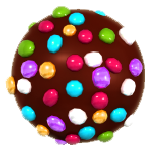
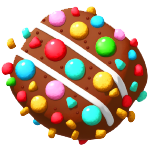
Updated some sprites, added some animations

diff --git a/src/pages/game/candy-tiles/level-grid/level-items/Chocolate.tsx b/src/pages/game/candy-tiles/level-grid/level-items/Chocolate.tsx
@@ -6,7 +6,7 @@ import useEffectAfterFirstRender from '../../../../../hooks/useEffectAfterFirstR
 import { useRecoilValue, useSetRecoilState } from 'recoil';
 import { levelItemsState } from '../../../../../recoil/atoms/levelItems';
 import { latestSwappedCandyColor } from '../LevelManager';
-import anime from 'animejs';
+import anime, { AnimeInstance } from 'animejs';
 import { scoreState } from '../../../../../recoil/atoms/score';
 import { scoreFxListState } from '../../../../../recoil/atoms/scoreFxList';
 import uuid from 'react-uuid';
@@ -15,14 +15,27 @@ import { getItemColumnIndex, getItemRowIndex } from '../../../../../game-algorit
 const chocolateMatchSound = new Audio(chocolateMatchSFX);
 chocolateMatchSound.volume = 0.5;
 
-const animateItemSpawn = (element: HTMLElement): void => {
+const animateItemSpawn = (element: HTMLElement, onComplete: () => void): void => {
 	anime({
 		targets: element,
-		scale: [0, 2, 1],
-		rotate: [360, 0],
+		scale: [0, 1.2, 1],
 		easing: 'easeOutBack',
 		duration: 500,
+		complete: onComplete,
 	});
+};
+
+const animateChocolateScale = (element: HTMLElement): AnimeInstance => {
+	const animation = anime({
+		targets: element,
+		rotate: [0, 360],
+		duration: 10000,
+		loop: true,
+		easing: 'linear',
+		direction: 'normal',
+	});
+
+	return animation;
 };
 
 const CHOCHOLATE_SCORE = 100;
@@ -33,16 +46,22 @@ type ChocolateProps = {
 };
 
 const Chocolate = ({ id, index }: ChocolateProps) => {
-	const [scale] = useState(0);
 	const [showFX, setShowFX] = useState(false);
 	const itemUsedRef = useRef(false);
 	const levelItems = useRecoilValue(levelItemsState);
 	const elementRef = useRef<HTMLImageElement | null>(null);
+	const spinAnimationRef = useRef<null | AnimeInstance>(null);
 	const setScore = useSetRecoilState(scoreState);
 	const setScoreFxList = useSetRecoilState(scoreFxListState);
 
 	useEffect(() => {
-		animateItemSpawn(elementRef.current as HTMLElement);
+		animateItemSpawn(elementRef.current as HTMLElement, () => {
+			spinAnimationRef.current = animateChocolateScale(elementRef.current as HTMLElement);
+		});
+
+		return () => {
+			anime.remove(spinAnimationRef.current);
+		};
 	}, []);
 
 	useEffectAfterFirstRender(() => {
@@ -68,12 +87,7 @@ const Chocolate = ({ id, index }: ChocolateProps) => {
 	return showFX ? (
 		<LevelItemFX color={latestSwappedCandyColor} maskSrc='/img/fx/triangleShape.png'></LevelItemFX>
 	) : (
-		<img
-			data-chocolate
-			ref={elementRef}
-			src={chocolateSprite}
-			className='block w-full h-full m-0 select-none pointer-events-none duration-200'
-		></img>
+		<img data-chocolate ref={elementRef} src={chocolateSprite} className='block w-full h-full m-0 select-none pointer-events-none'></img>
 	);
 };
 

diff --git a/src/pages/game/candy-tiles/level-grid/level-items/SuperCandy.tsx b/src/pages/game/candy-tiles/level-grid/level-items/SuperCandy.tsx
@@ -10,7 +10,7 @@ import LevelItemFX from '../fx/LevelItemFX';
 import { useRecoilValue, useSetRecoilState } from 'recoil';
 import { levelItemsState } from '../../../../../recoil/atoms/levelItems';
 import useEffectAfterFirstRender from '../../../../../hooks/useEffectAfterFirstRender';
-import anime from 'animejs';
+import anime, { AnimeInstance } from 'animejs';
 import { scoreState } from '../../../../../recoil/atoms/score';
 import { scoreFxListState } from '../../../../../recoil/atoms/scoreFxList';
 import uuid from 'react-uuid';
@@ -29,14 +29,27 @@ const superCandyMatchSound = new Audio(superCandyMatchSFX);
 
 export const CandyColors = ['Red', 'Orange', 'Yellow', 'Green', 'Blue', 'Purple'];
 
-const animateItemSpawn = (element: HTMLElement): void => {
+const animateItemSpawn = (element: HTMLElement, onComplete: () => void): void => {
 	anime({
 		targets: element,
 		scale: [0, 1],
-		rotate: [180, 0],
+		rotate: [180, -10],
 		easing: 'easeOutBack',
 		duration: 750,
+		complete: onComplete,
 	});
+};
+
+const animateSuperCandyRotation = (element: HTMLElement): AnimeInstance => {	
+	const animation = anime({
+		targets: element,
+		rotate: [-10, 10],
+		duration: 1500,
+		easing: 'easeInOutCubic',
+		direction: 'alternate',
+		loop: true,
+	});
+	return animation;
 };
 
 const SUPER_CANDY_SCORE = 50;
@@ -52,11 +65,18 @@ const SuperCandy = ({ color, id, index }: SuperCandyProps) => {
 	const itemUsedRef = useRef(false);
 	const elementRef = useRef<HTMLImageElement | null>(null);
 	const levelItems = useRecoilValue(levelItemsState);
+	const rotateAnimationRef = useRef<null | AnimeInstance>(null);
 	const setScore = useSetRecoilState(scoreState);
 	const setScoreFxList = useSetRecoilState(scoreFxListState);
 
 	useEffect(() => {
-		animateItemSpawn(elementRef.current as HTMLElement);
+		animateItemSpawn(elementRef.current as HTMLElement, () => {
+			rotateAnimationRef.current = animateSuperCandyRotation(elementRef.current as HTMLElement);
+		});
+
+		return () => {
+			anime.remove(rotateAnimationRef.current);
+		};
 	}, []);
 
 	useEffectAfterFirstRender(() => {
@@ -87,7 +107,7 @@ const SuperCandy = ({ color, id, index }: SuperCandyProps) => {
 			data-candy
 			data-color={color}
 			src={candyImages[color]}
-			className='block w-full h-full m-0 select-none pointer-events-none duration-200'
+			className='block w-full h-full m-0 select-none pointer-events-none'
 		></img>
 	);
 };

diff --git a/src/pages/game/candy-tiles/level-grid/tiles/RockTile.tsx b/src/pages/game/candy-tiles/level-grid/tiles/RockTile.tsx
@@ -38,7 +38,13 @@ const RockTile = ({ index }: TileProps) => {
 
 	return (
 		<div className='relative bg-black/25 m-[2%] hover:invert duration-200 select-none rounded cursor-not-allowed' data-index={index}>
-			<img src={damaged ? '/img/tiles/rock.png' : '/img/tiles/rock2.png'} className='pointer-events-none'></img>
+			<img
+				src='/img/tiles/rock2.png'
+				className='pointer-events-none'
+				style={{
+					opacity: damaged ? 0.75 : 1,
+				}}
+			></img>
 			<span className='absolute bottom-0 right-0 text-[12px] text-white/50 font-bold hidden'>{index}</span>
 		</div>
 	);

diff --git a/src/pages/game/candy-tiles/level-grid/tiles/FrostTile.tsx b/src/pages/game/candy-tiles/level-grid/tiles/FrostTile.tsx
@@ -37,7 +37,13 @@ const FrostTile = ({ index }: TileProps) => {
 
 	return (
 		<div className='relative bg-black/25 m-[2%] hover:invert duration-200 select-none rounded' data-index={index} data-tile>
-			<img src={damaged ? '/img/tiles/frost.png' : '/img/tiles/frost2.png'} className='pointer-events-none'></img>
+			<img
+				src={'/img/tiles/frost2.png'}
+				className='pointer-events-none'
+				style={{
+					opacity: damaged ? 0.75 : 1,
+				}}
+			></img>
 			<span className='absolute bottom-0 right-0 text-[12px] text-black font-bold'>{index}</span>
 		</div>
 	);
